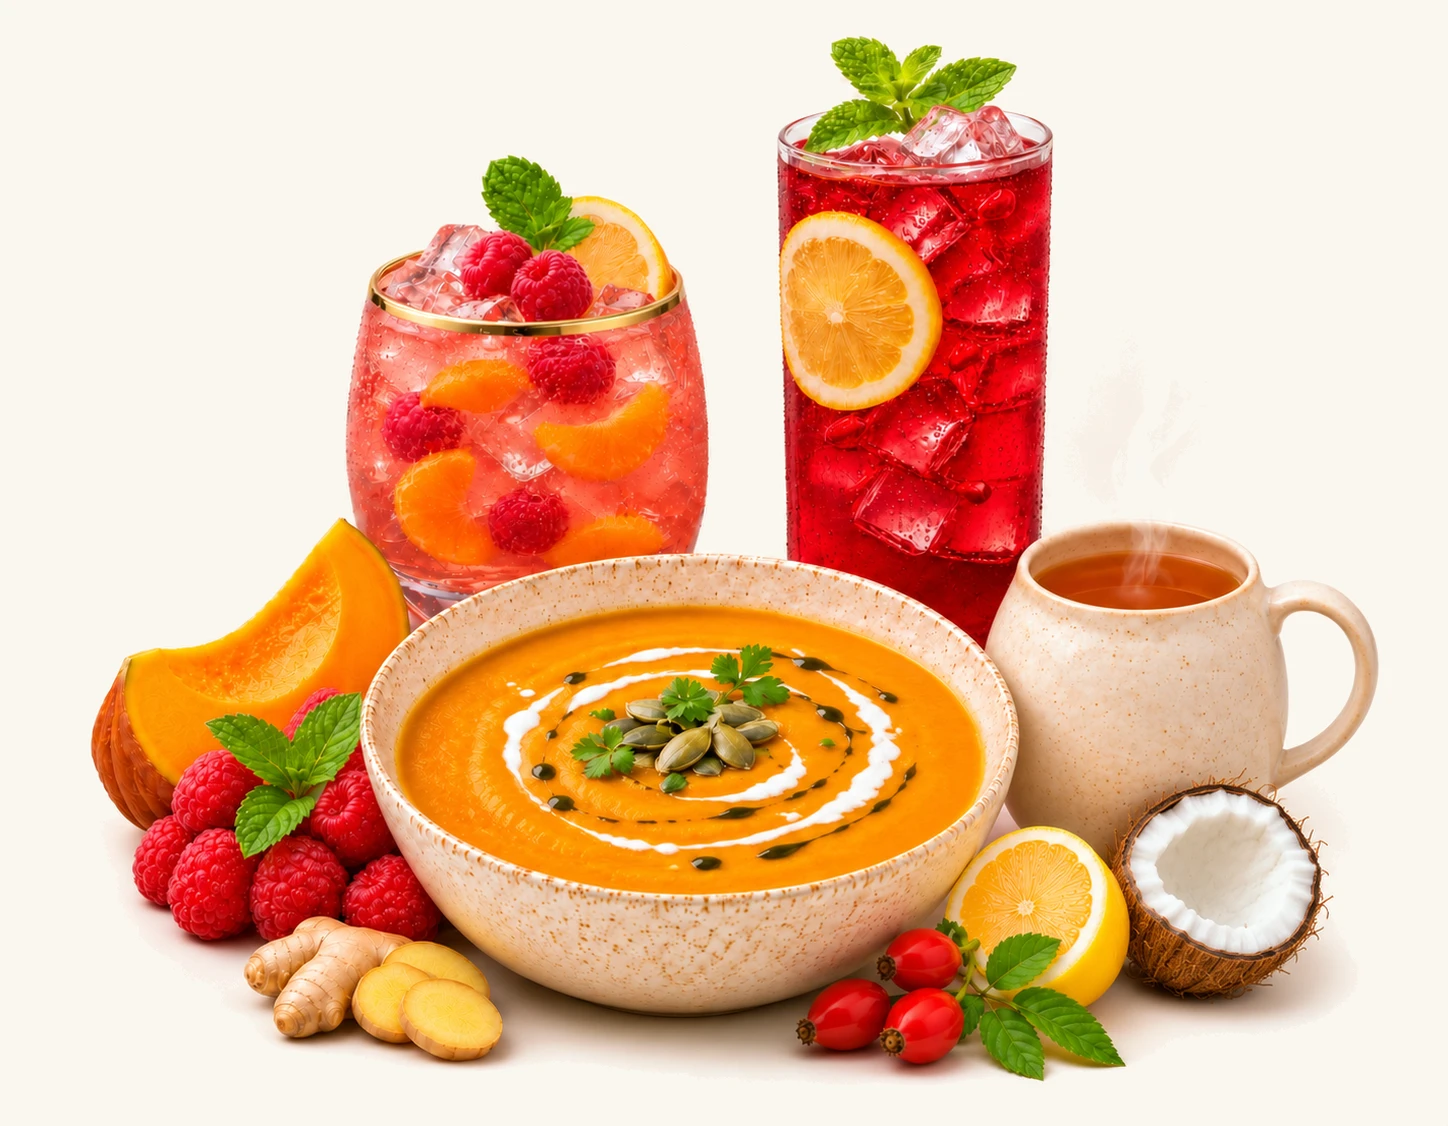
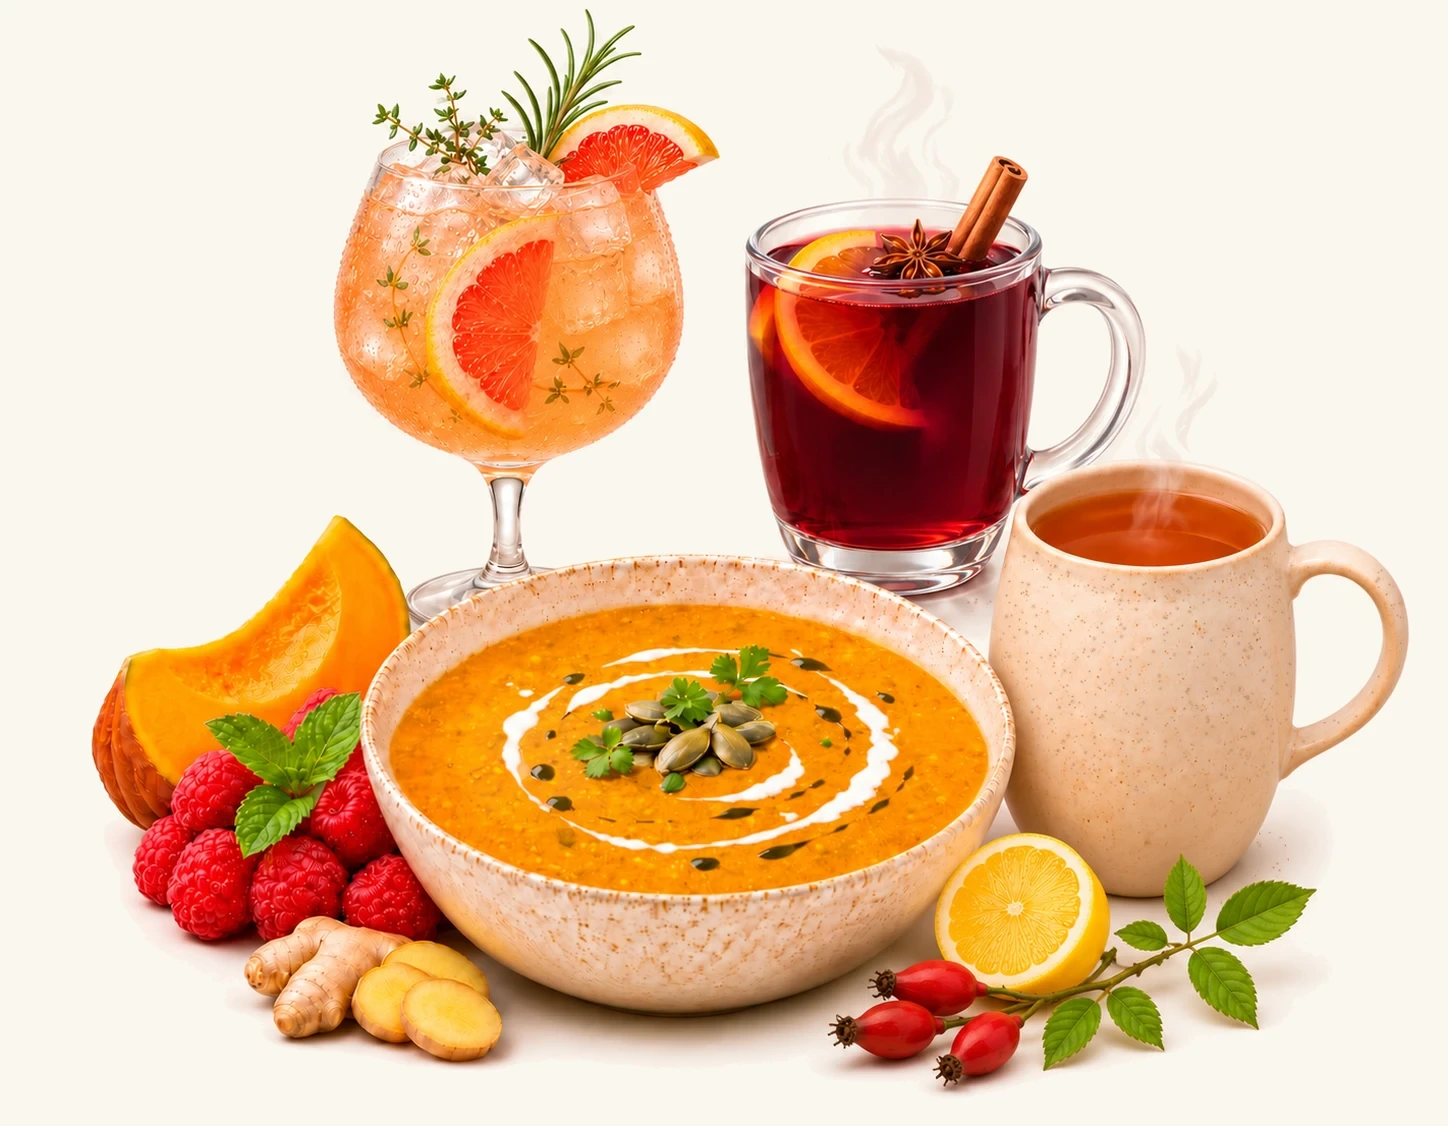
E-shop: nová úvodní fotka (dýňová, Lady Carneval, Svařák Deluxe, nápoj ze sirupu) (#205)
Claude-Session: https://claude.ai/code/session_016QL8fyP6fDGx2RMwKgd8AU

diff --git a/dashboard/components/__tests__/HomeHero.test.tsx b/dashboard/components/__tests__/HomeHero.test.tsx
@@ -43,7 +43,7 @@ describe("úvod e-shopu", () => {
   it("fotografie úvodu (polévka, čaj, limonáda, begina, 11. 11. 2026) v plném poměru, existuje v public", () => {
     render(<HomeHero />);
     const img = screen.getByRole("img", { name: HERO_PHOTO.alt });
-    expect(img.getAttribute("src")).toBe("/eshop/hero/polevka-a-napoje-v4.webp");
+    expect(img.getAttribute("src")).toBe("/eshop/hero/polevka-a-napoje-v9.webp");
     expect(HERO_PHOTO.width / HERO_PHOTO.height).toBeCloseTo(1448 / 1126);
     expect(img.className).toContain("h-auto");
     expect(img.className).not.toMatch(/object-cover|rounded|shadow|border/);

diff --git a/dashboard/components/eshop/HomeHero.tsx b/dashboard/components/eshop/HomeHero.tsx
@@ -20,10 +20,10 @@ import ShopLink from "./ShopLink";
 // velikosti pro rychlé načtení připravuje next/image (AVIF/WebP podle sizes).
 
 export const HERO_PHOTO = {
-  src: "/eshop/hero/polevka-a-napoje-v4.webp",
+  src: "/eshop/hero/polevka-a-napoje-v9.webp",
   width: 1448,
   height: 1126,
-  alt: "Dýňová polévka v misce, ovocný nápoj s malinami, koktejl s granátovým jablkem a hrnek horkého bylinného nápoje",
+  alt: "Dýňová polévka v misce, koktejl Lady Carneval s grepem, horký Svařák Deluxe a hrnek horkého bylinného nápoje ze sirupu",
 };
 
 export const HERO_LINKS = {

diff --git a/dashboard/lib/eshop/__tests__/homeNav.test.ts b/dashboard/lib/eshop/__tests__/homeNav.test.ts
@@ -67,7 +67,7 @@ describe("úvodní stránka — kategorie z návrhu", () => {
     const pub = path.join(__dirname, "../../../public");
     for (const c of stripCategories(HOME_CATEGORIES)) expect(existsSync(path.join(pub, c.icon)), c.icon).toBe(true);
     // úvod od 8. 11. 2026: jedna skutečná fotografie (bez krabice)
-    for (const f of ["polevka-a-napoje-v4"]) {
+    for (const f of ["polevka-a-napoje-v9"]) {
       expect(existsSync(path.join(pub, `eshop/hero/${f}.webp`)), f).toBe(true);
     }
   });

diff --git a/dashboard/lib/site/__tests__/routing.test.ts b/dashboard/lib/site/__tests__/routing.test.ts
@@ -101,7 +101,7 @@ describe("begina.cz — stránky e-shopu bez /eshop", () => {
       "/favicon.ico",
       "/logo-begina-mark.png",
       "/eshop/kulajda.jpg",
-      "/eshop/hero/polevka-a-napoje-v4.webp",
+      "/eshop/hero/polevka-a-napoje-v9.webp",
       "/eshop/hero/ikona-polevky-2026-11c.webp",
     ]) {
       expect(get("begina.cz", pathname), pathname).toEqual({ kind: "pass", site: "public" });
